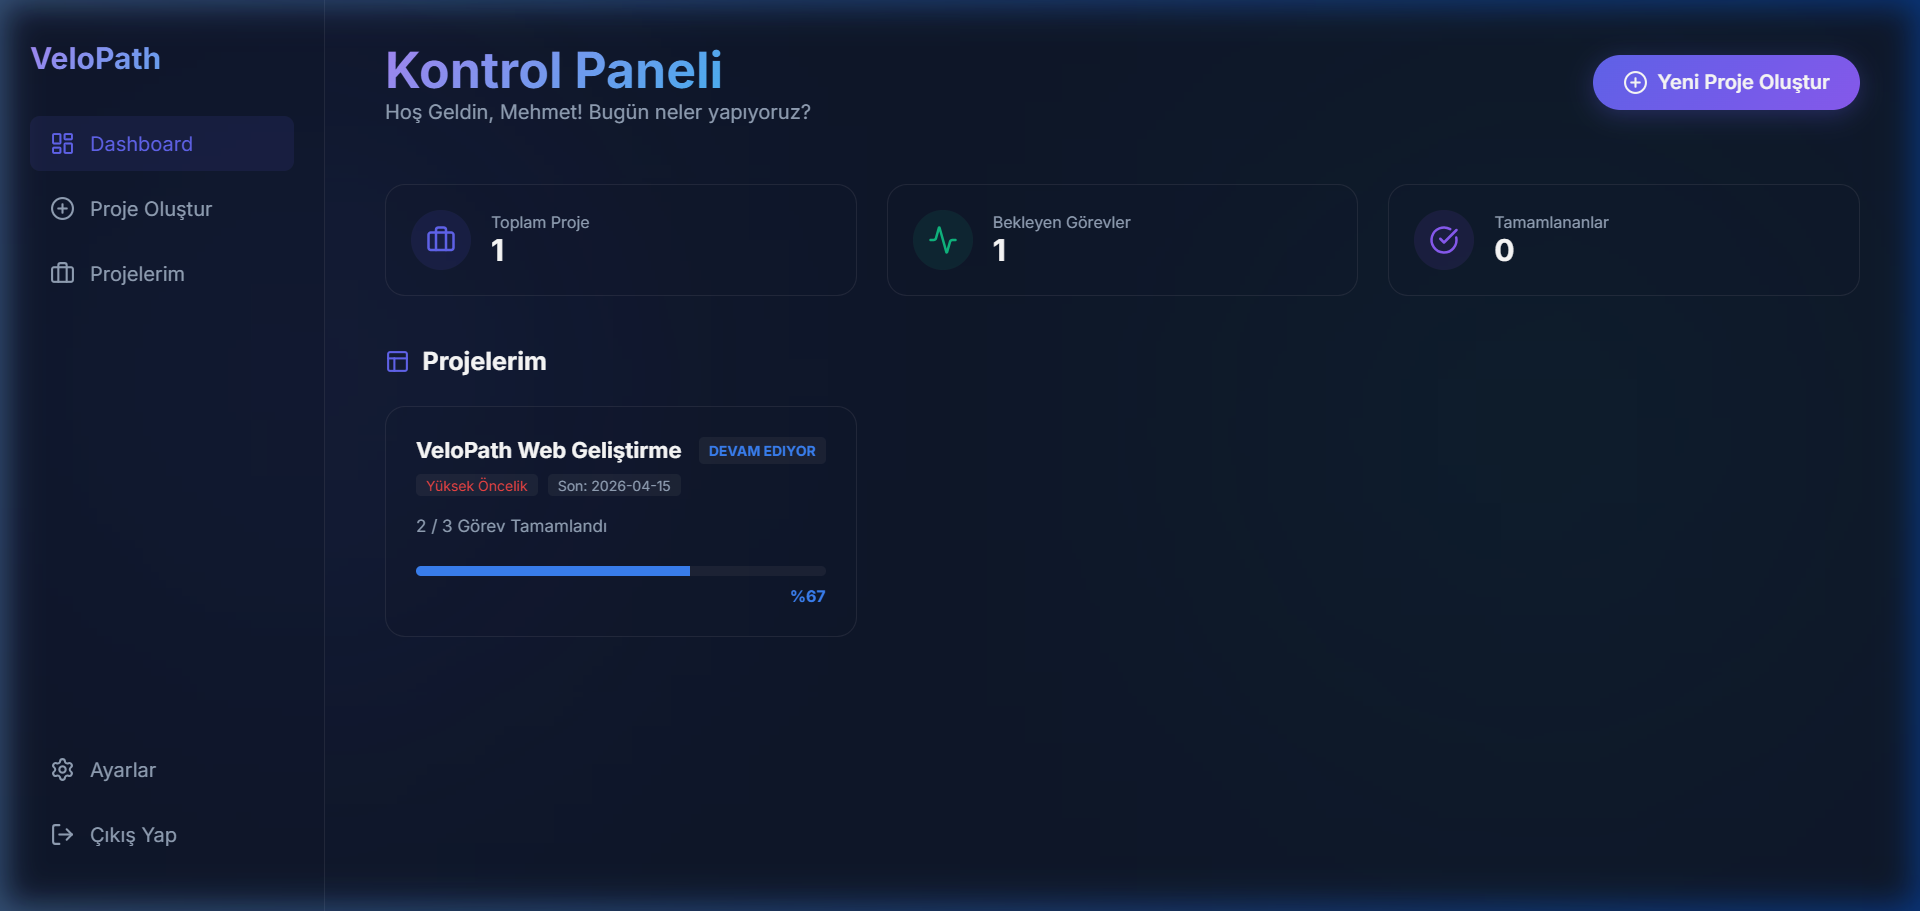
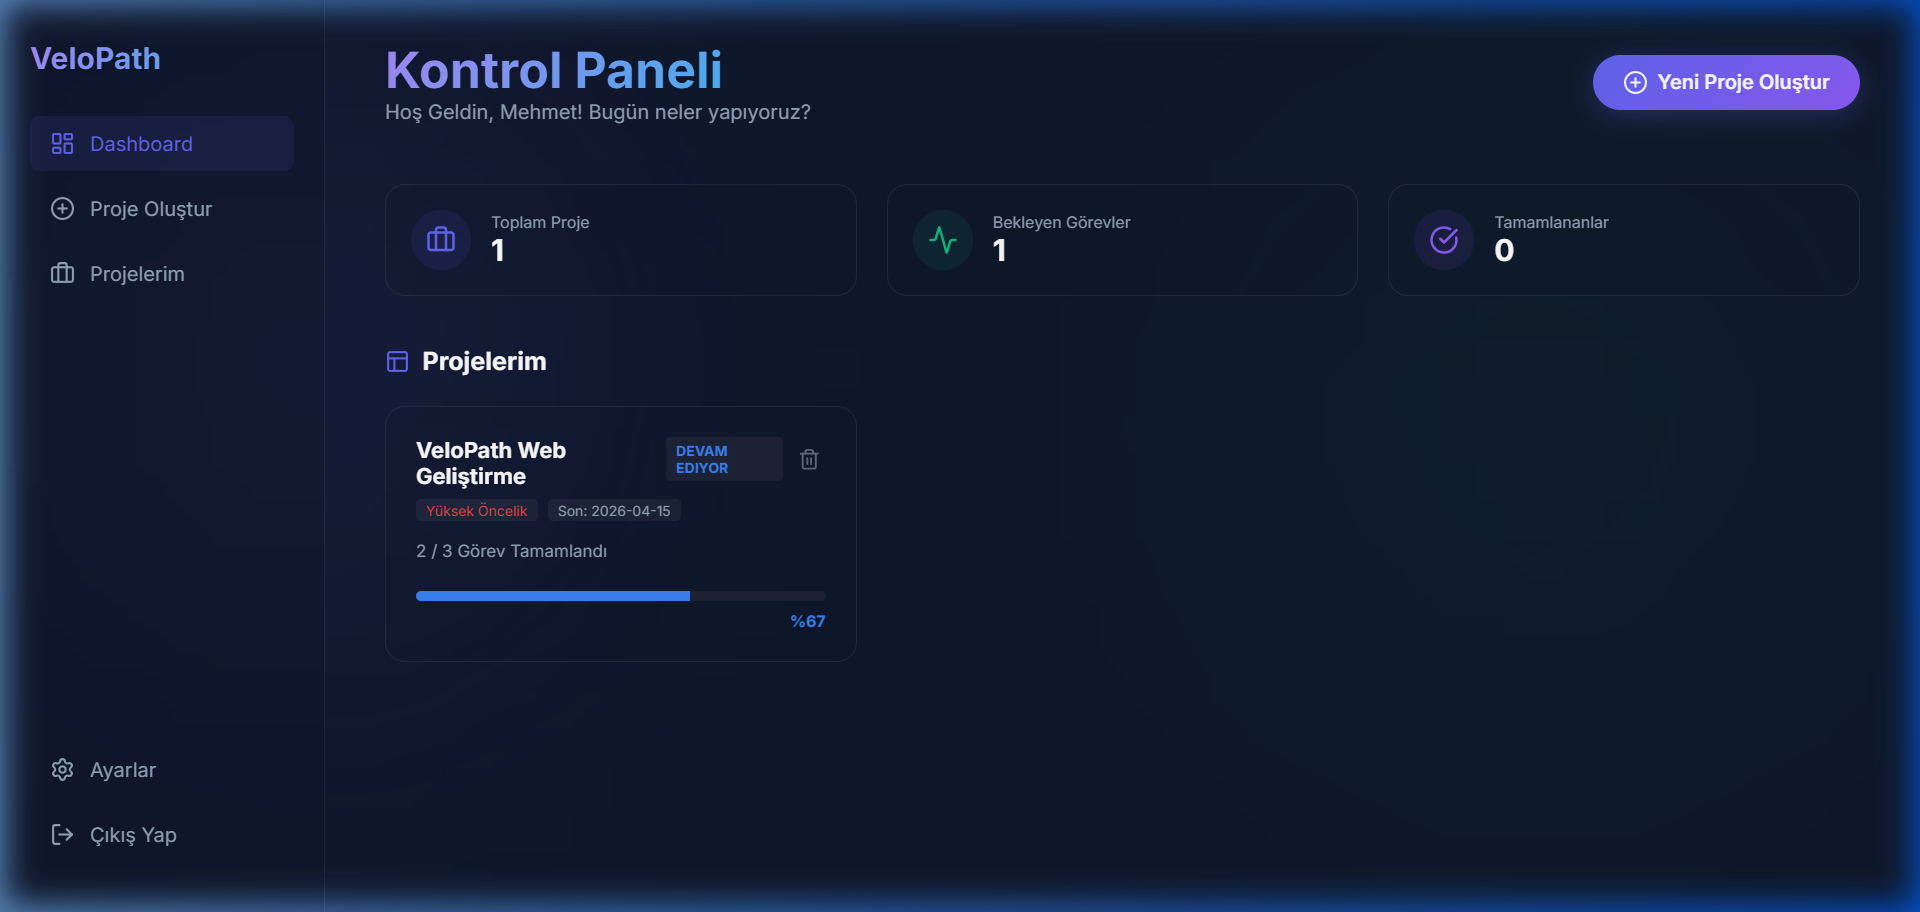
docs: README ve ekran goruntusu, yeni cikan LocalStorage ve CRUD (Silme) ozellikleriyle guncellendi

Changed region(s): [[0.0, 0.0, 1.0, 1.0], [0.2188, 0.461, 0.4375, 0.6762], [0.4062, 0.6454, 0.4375, 0.7069]]

diff --git a/README.md b/README.md
@@ -8,12 +8,13 @@
 
 VeloPath, en iyi modern kullanıcı deneyimini (UX) sunmak için "Next-Gen" (Linear / Vercel esintili) teknoloji tasarım trendleriyle inşa edilmiştir:
 
-- 🚀 **Ultra-Modern Premium Arayüz:** Derin *Glassmorphism* (buzlu cam) paneller ve degrade (gradient) başlıklarla "State-of-the-Art" görünüm.
+- 🚀 **Ultra-Modern Premium Arayüz:** Derin *Glassmorphism* (buzlu cam) paneller, degrade (gradient) başlıklarla "State-of-the-Art" görünüm.
+- 💾 **Kalıcı Veri (Local Storage):** Tarayıcıyı kapatsanız bile projelerinizin ve görevlerinizin kaybolmamasını sağlayan entegre hafıza sistemi.
+- 🗑 **Güvenli Silme Özgürlüğü:** Görevleri hızlıca silebilir veya bitmiş projelerinizi güvenli "onay" mekanizmalarıyla sistemden kaldırabilirsiniz.
 - 🔮 **Aurora Ambient Arka Plan:** Uygulamaya derinlik ve "canlılık" hissi katan hareketli, otonom arka plan ışıkları.
-- 🎯 **Gelişmiş Proje Yönetimi:** Her projeye *Öncelik Seviyesi (Priority)*, *Teslim Tarihi (Deadline)* ve manuel *Durum (Status)* atayabilme imkanı.
+- 🎯 **Gelişmiş Proje Yönetimi:** Her projeye *Öncelik*, *Teslim Tarihi* ve *Durum* atayabilme imkanı.
 - 📊 **Dinamik Dashboard:** Projelerinizi ve istatistiklerinizi tek ekranda organize edebildiğiniz performans paneli.
-- 🎨 **Akıllı İlerleme Renkleri:** Görevlerin doluluk oranına göre renk değiştiren progress bar'lar ve %100 olduğunda beliren özel başarı *glow* efekti.
-- 💫 **Mikro Etkileşimler:** Sayfalar arası akıcı *Slide-Up/Fade-In* açılış animasyonları ve parıldayan bileşenlerdeki duyarlı *Haptic-Click* hissi.
+- 💫 **Mikro Etkileşimler:** Akıcı *Slide-Up* açılış animasyonları ve parıldayan bileşenlerdeki duyarlı *Haptic-Click* hissi.
 
 ---
 
